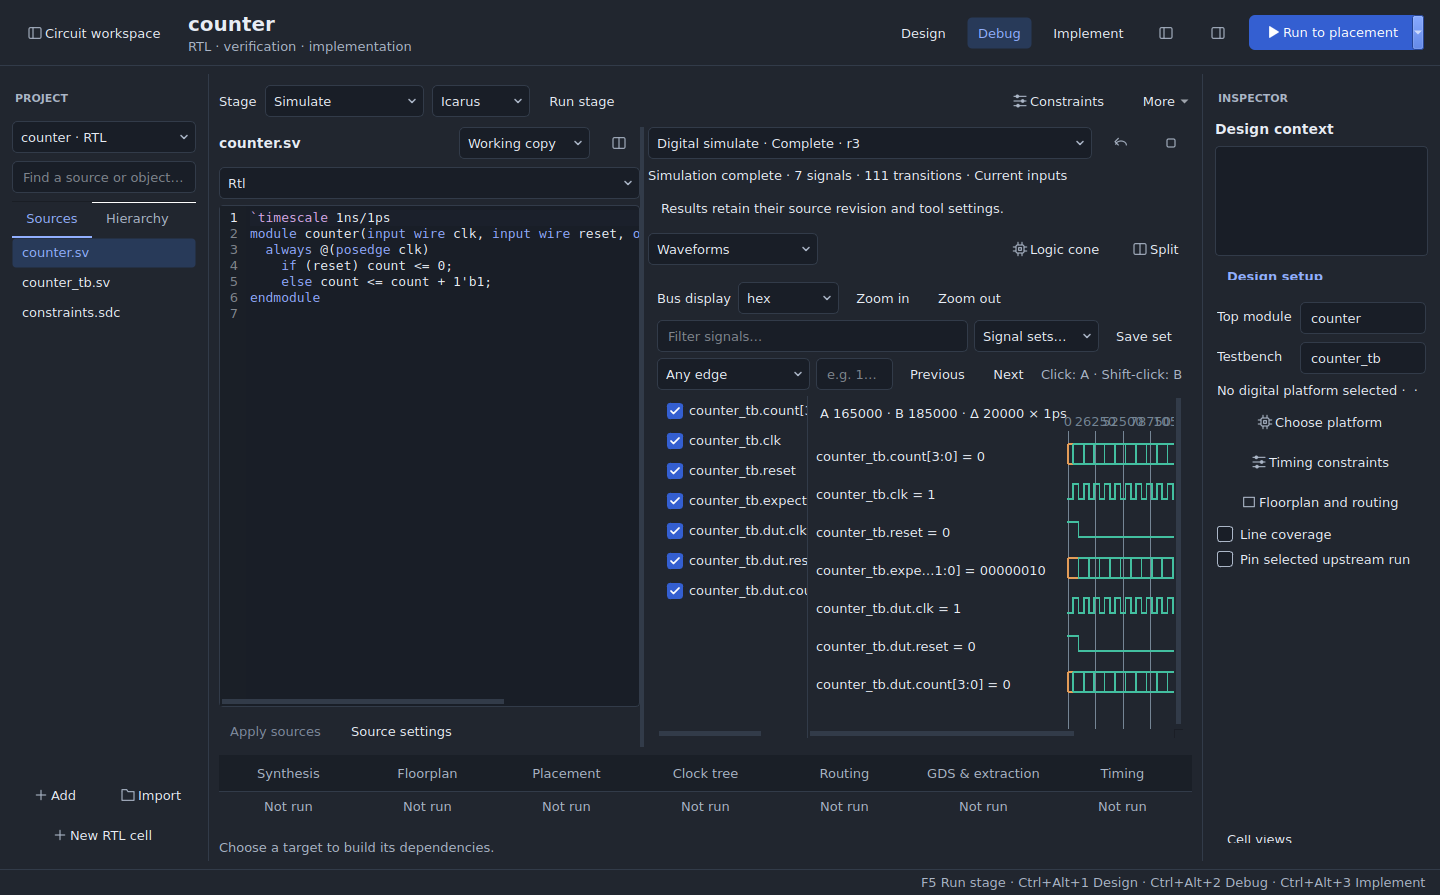
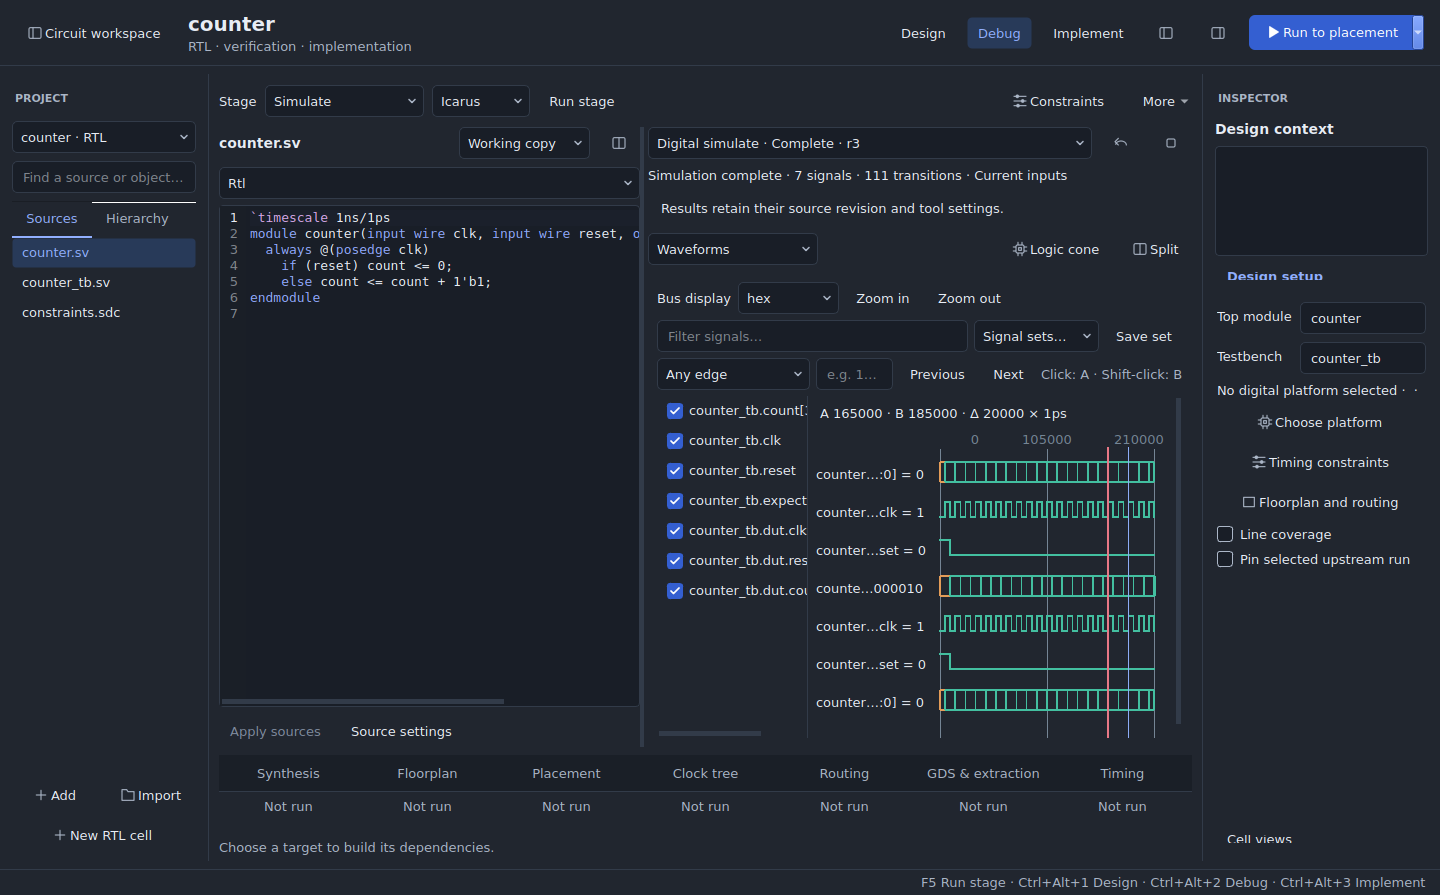
Adapt waveform geometry to split panes and qualify EQY config parsing

Changed region(s): [[0.5625, 0.4525, 0.8125, 0.8447]]

diff --git a/icstudio/digital_ui.py b/icstudio/digital_ui.py
@@ -36,13 +36,17 @@ class DigitalWaveform(QWidget):
     def __init__(self):
         super().__init__(); self.data = None; self.signals = []; self.zoom = 1; self.cursor = 0; self.cursor_b = 0; self.radix = 'hex'
         self.setAccessibleName('Digital waveforms; click to inspect exact simulation ticks')
-        self.setMinimumSize(500, 220)
+        self.setMinimumSize(280, 220)
 
     def set_data(self, data, signals=None):
         self.data = data
         self.signals = (signals if signals is not None else data['signals'][:12]) if data else []
-        self.setMinimumSize(500 if self.zoom == 1 else min(50000, 900*self.zoom), max(220, 70+len(self.signals)*38))
+        self.setMinimumSize(280 if self.zoom == 1 else min(50000, 900*self.zoom), max(220, 88+len(self.signals)*38))
         self.update()
+
+    def plot_geometry(self):
+        left = min(260, max(100, round(self.width()*.36)))
+        return left, max(1, self.width()-left-20)
 
     def paintEvent(self, event):
         painter = QPainter(self); painter.fillRect(event.rect(), self.palette().base())
@@ -50,17 +54,19 @@ class DigitalWaveform(QWidget):
             painter.setPen(self.palette().text().color())
             painter.drawText(self.rect(), Qt.AlignCenter, 'Run a digital testbench to inspect its waveform')
             return
-        left = 260; width = max(1, self.width()-left-20); end = max(1, self.data['end_tick'])
+        left, width = self.plot_geometry(); end = max(1, self.data['end_tick'])
         x = lambda tick: left + tick/end*width
         painter.setPen(self.palette().text().color())
         painter.drawText(12, 22, f"A {self.cursor} · B {self.cursor_b} · Δ {abs(self.cursor_b-self.cursor)} × {self.data['timescale']}")
-        for i in range(9):
-            tick = round(end*i/8); xpos = x(tick)
-            painter.setPen(QColor('#758595')); painter.drawLine(QPointF(xpos, 35), QPointF(xpos, self.height()))
-            painter.drawText(QRectF(xpos-35, 15, 70, 20), Qt.AlignCenter, str(tick))
+        intervals = max(1, min(8, int(width/80)))
+        for i in range(intervals+1):
+            tick = round(end*i/intervals); xpos = x(tick)
+            painter.setPen(QColor('#758595')); painter.drawLine(QPointF(xpos, 53), QPointF(xpos, self.height()))
+            label_x = min(self.width()-70, max(left, xpos-35))
+            painter.drawText(QRectF(label_x, 33, 70, 20), Qt.AlignCenter, str(tick))
         # Paint only visible lanes and transitions; the scroll area clips large traces.
         for i, signal in enumerate(self.signals):
-            y = 65+i*38
+            y = 83+i*38
             if y+20 < event.rect().top() or y-25 > event.rect().bottom(): continue
             events = self.data['changes'][signal['code']]
             value = format_value(value_at(events, self.cursor, signal['width']), self.radix)
@@ -88,11 +94,12 @@ class DigitalWaveform(QWidget):
                                          painter.fontMetrics().elidedText(format_value(bits, self.radix), Qt.ElideRight, int(b-a-4)))
                     prev = None
         for tick,color in ((self.cursor,'#e87886'),(self.cursor_b,'#8dadf7')):
-            painter.setPen(QPen(QColor(color), 1.5)); painter.drawLine(QPointF(x(tick), 34), QPointF(x(tick), self.height()))
+            painter.setPen(QPen(QColor(color), 1.5)); painter.drawLine(QPointF(x(tick), 52), QPointF(x(tick), self.height()))
 
     def mousePressEvent(self, event):
         if self.data:
-            tick = max(0, min(self.data['end_tick'], round((event.position().x()-260)/max(1,self.width()-280)*self.data['end_tick'])))
+            left, width = self.plot_geometry()
+            tick = max(0, min(self.data['end_tick'], round((event.position().x()-left)/width*self.data['end_tick'])))
             if event.modifiers() & Qt.ShiftModifier: self.cursor_b = tick
             else: self.cursor = tick
             self.update()
@@ -356,7 +363,7 @@ class DigitalFlowWindow(QDockWidget):
                     waveform = open_waveform(row['path']/data['artifacts']['waveform']['path'])
                     self.wave.cursor = 0; self.wave.cursor_b = 0; self.wave.zoom = 1; self.wave.set_data(waveform)
                     for index, signal in enumerate(waveform['signals']):
-                        item = QListWidgetItem(signal['name']); item.setFlags(item.flags()|Qt.ItemIsUserCheckable); item.setData(Qt.UserRole,index)
+                        item = QListWidgetItem(signal['name']); item.setToolTip(signal['name']); item.setFlags(item.flags()|Qt.ItemIsUserCheckable); item.setData(Qt.UserRole,index)
                         item.setCheckState(Qt.Checked if index < 12 else Qt.Unchecked); self.signals.addItem(item)
                     self.result_tabs.setCurrentIndex(0)
                 else: self.result_tabs.setCurrentIndex(1)

diff --git a/tests/gui_digital.py b/tests/gui_digital.py
@@ -47,7 +47,14 @@ def main():
     assert d.wave.data and d.wave.data['timescale']=='1ps'
     assert 'Current inputs' in d.summary.text()
     assert not w.jobs,'Digital payload was sent to the analog plot'
-    d.shell.mode(1);d.wave.cursor_b=185000;d.wave.cursor=165000;d.wave.update();QTest.qWait(80);d.grab().save(str(out/'waveforms.png'))
+    d.shell.mode(1);QTest.qWait(80)
+    from PySide6.QtCore import Qt,QPoint
+    left,width=d.wave.plot_geometry();end=d.wave.data['end_tick']
+    QTest.mouseClick(d.wave,Qt.LeftButton,Qt.NoModifier,QPoint(round(left+width*.25),80))
+    QTest.mouseClick(d.wave,Qt.LeftButton,Qt.ShiftModifier,QPoint(round(left+width*.75),80))
+    assert abs(d.wave.cursor-end*.25)<=end/width
+    assert abs(d.wave.cursor_b-end*.75)<=end/width
+    d.wave.cursor_b=185000;d.wave.cursor=165000;d.wave.update();QTest.qWait(80);d.grab().save(str(out/'waveforms.png'))
     d.files.setCurrentRow(0);d.editor.insertPlainText('// New revision\n');assert d.apply()
     assert 'earlier inputs' in d.summary.text()
     d.shell.show_captured({'path':'counter.sv','line':3})

diff --git a/icstudio/digital_implementation.py b/icstudio/digital_implementation.py
@@ -234,7 +234,7 @@ def equivalence(r):
     script='[gold]\n'+gold+'prep -top '+r.config['top']+' -flatten'+normalize+'\n[gate]\n'+gate+'\nread_verilog ../netlist.v\n'
     script+='hierarchy -check -top '+r.config['top']+'\nflatten\ntechmap -autoproc -map +/simcells.v\nprep -top '+r.config['top']+normalize
     # Outputs reused internally must retain their driving cone as well.
-    script+='\n[collect]\nbind *\n'
+    script+='\n[collect *]\nbind *\n'
     # Encode undefined state explicitly; EQY's SAT strategy can prove this case vacuously.
     script+='\n[strategy smtbmc]\nuse sby\nengine smtbmc bitwuzla\nxprop on\ndepth 30\n'
     atomic_write(r.root/'equivalence.eqy',script)
